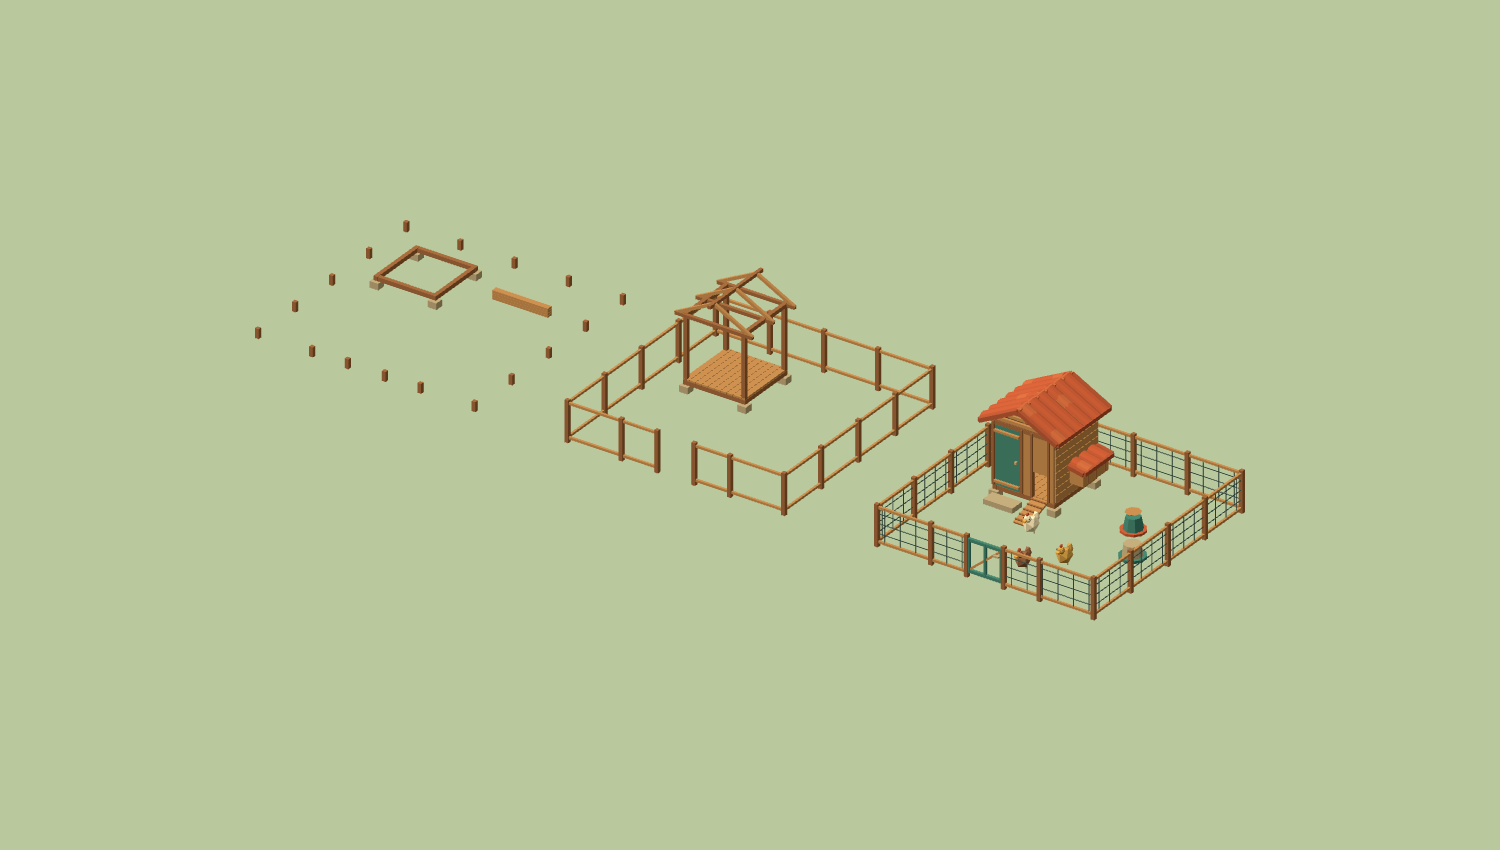
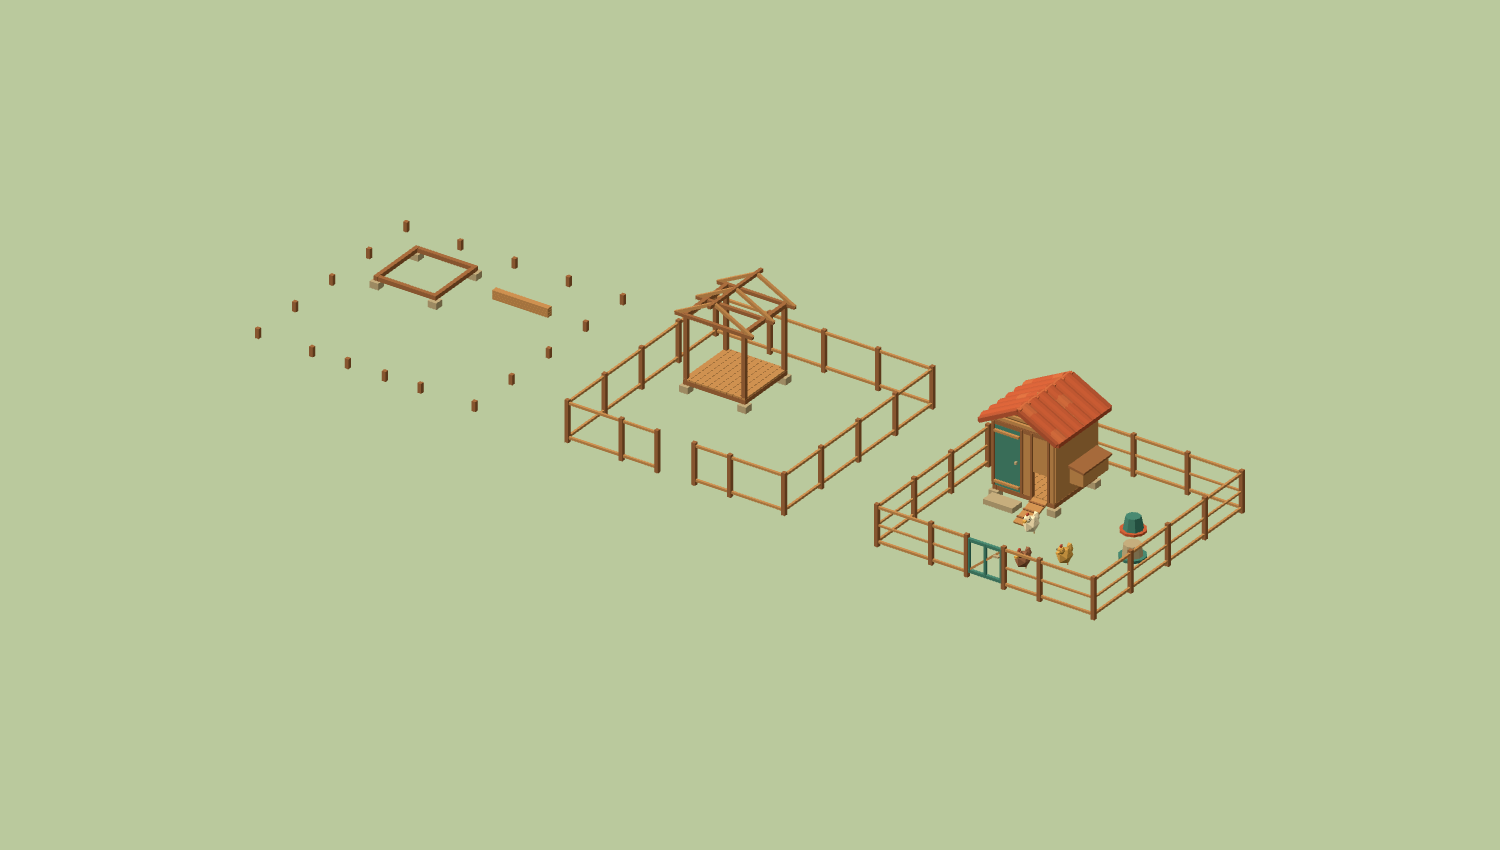
Simplify finished coop detailing

diff --git a/web/v02/library/chicken-coop.js b/web/v02/library/chicken-coop.js
@@ -1,6 +1,6 @@
 import * as THREE from 'three';
 import {box,beam,cylinder} from '../workshop/models.js';
-import {gableRoof,leanRoof} from './roof-forms.js';
+import {gableRoof} from './roof-forms.js';
 
 // All stages share these anchors: the house occupies the rear-left of its run.
 const HOME={x:-1.5,z:-1.5,eave:2.35,ridge:3};
@@ -17,8 +17,7 @@ function enclosure(g,stage){
   const p=part(g,'run-panel',x,z);p.rotation.y=turn;
   for(const y of [.15,1.2])box(p,width,.07,.07,'timberLight',0,y,0);
   if(stage===1)return;
-  for(const y of [.4,.7,1])box(p,width,.018,.018,'glass',0,y,0);
-  for(let x=-width/2+.25;x<width/2;x+=.5)box(p,.018,1.05,.018,'glass',x,.675,0);
+  box(p,width,.055,.055,'timberLight',0,.65,0);
  }
  panel(0,-3.5,7);panel(-3.5,0,7,Math.PI/2);panel(3.5,0,7,Math.PI/2);
  panel(-2.05,3.5,2.9);panel(2.05,3.5,2.9);
@@ -52,11 +51,9 @@ export function chickenCoop(chicken,stage=2){
  beam(frame,[0,HOME.ridge,-1.25],[0,HOME.ridge,1.25],.1,'timber');
  for(let x=-.9;x<1;x+=.2)box(home,.19,.09,2,'timberLight',x,.36,0);
  if(stage===1)return g;
- // Broad boards keep the walls readable at gameplay scale.
- for(let y=.52;y<2.25;y+=.23){
-  box(home,2,.215,.09,'timberLight',0,y,-1);
-  for(const x of [-1,1])box(home,.09,.215,2,y>1.9?'timber':'timberLight',x,y,0);
- }
+ // Quiet wall planes keep the small building legible at game zoom.
+ box(home,2,1.84,.09,'timberLight',0,1.33,-1);
+ for(const x of [-1,1])box(home,.09,1.84,2,'timberLight',x,1.33,0);
  // Full-height cleaning door and a separate low hen hatch.
  box(home,.82,1.85,.08,'teal',-.48,1.33,1.02);
  for(const x of [-.94,-.02,.3,.85])box(home,.07,1.94,.12,'timber',x,1.37,1.03);
@@ -67,7 +64,7 @@ export function chickenCoop(chicken,stage=2){
  for(const y of [.55,2.1])box(home,.8,.07,.1,'timberLight',-.48,y,1.09);
  box(home,.07,.07,.08,'stone',-.18,1.3,1.1);
  const ramp=part(home,'hen-ramp',.575,1.5);ramp.position.y=.22;ramp.rotation.x=.32;
- box(ramp,.48,.06,1,'timberLight');for(const z of [-.4,-.2,0,.2,.4])box(ramp,.48,.035,.045,'timber',0,.05,z);
+ box(ramp,.48,.06,1,'timberLight');for(const z of [-.3,0,.3])box(ramp,.48,.035,.045,'timber',0,.05,z);
  box(home,.95,.16,.45,'stone',-.48,.08,1.3);
  // Front gable ventilation slats sit below the same roof as the trusses.
  for(let n=0;n<3;n++)box(home,1.65-n*.5,.08,.07,'timberLight',0,2.45+n*.16,1);
@@ -75,12 +72,10 @@ export function chickenCoop(chicken,stage=2){
  // Exterior nest-box access on the right wall, away from the cleaning door.
  const nests=part(home,'nest-boxes',1.24,-.25);
  box(nests,.48,.45,1.2,'timberLight',0,.95,0);
- for(const z of [-.4,0,.4])box(nests,.03,.38,.035,'timber',.25,.95,z);
- const lid=part(nests,'nest-lid');lid.rotation.y=Math.PI/2;leanRoof(lid,1.35,.62,1.18,1.3);
+ const lid=box(nests,.62,.07,1.35,'timber',0,1.23,0);lid.rotation.z=-.18;
  for(const z of [-.45,.3])beam(home,[-.8,.85,z],[.8,.85,z],.055,'timber');
  const feed=part(g,'feed-station',1.7,-1);
  cylinder(feed,.22,.3,.42,'teal',0,.27,0,8);cylinder(feed,.38,.38,.07,'tile',0,.07,0,10);
- cylinder(feed,.24,0,.14,'timberLight',0,.55,0,8);
  const water=part(g,'water-station',2.5,.2);
  cylinder(water,.25,.3,.38,'stone',0,.27,0,10);cylinder(water,.4,.4,.08,'teal',0,.08,0,10);
  for(const [i,x,z]of [[0,-.5,.6],[1,1.2,1.5],[2,.4,2.3]]){const bird=chicken(i);bird.position.set(x,0,z);g.add(bird);}

diff --git a/web/v02/library/catalog.js b/web/v02/library/catalog.js
@@ -2051,7 +2051,7 @@ for(const def of ASSETS){
   def.footprint=FUNCTIONAL_LAYOUTS[id]?.site||program.site;
   if(FUNCTIONAL_LAYOUTS[id])def.description=`A ${FUNCTIONAL_LAYOUTS[id].shell.join(" × ")} m home with an individual roofline and sheltered entrance. The reserved site includes outdoor clearance.`;
   else if(FUNCTIONAL_DESCRIPTIONS[id])def.description=FUNCTIONAL_DESCRIPTIONS[id];
-  if(FUNCTIONAL_LAYOUTS[id]||REMODELED_FACILITIES.has(id))def.revision=id==='coop'?5:4;
+  if(FUNCTIONAL_LAYOUTS[id]||REMODELED_FACILITIES.has(id))def.revision=id==='coop'?6:4;
   const stage=def.constructionOf?Number(def.id.at(-1)):2;
   if(FUNCTIONAL_LAYOUTS[id])def.build=()=>functionalHome(id,stage);
   else if(REMODELED_FACILITIES.has(id))def.build=()=>functionalFacility(id,{plant,tree,goat,chicken},stage);
